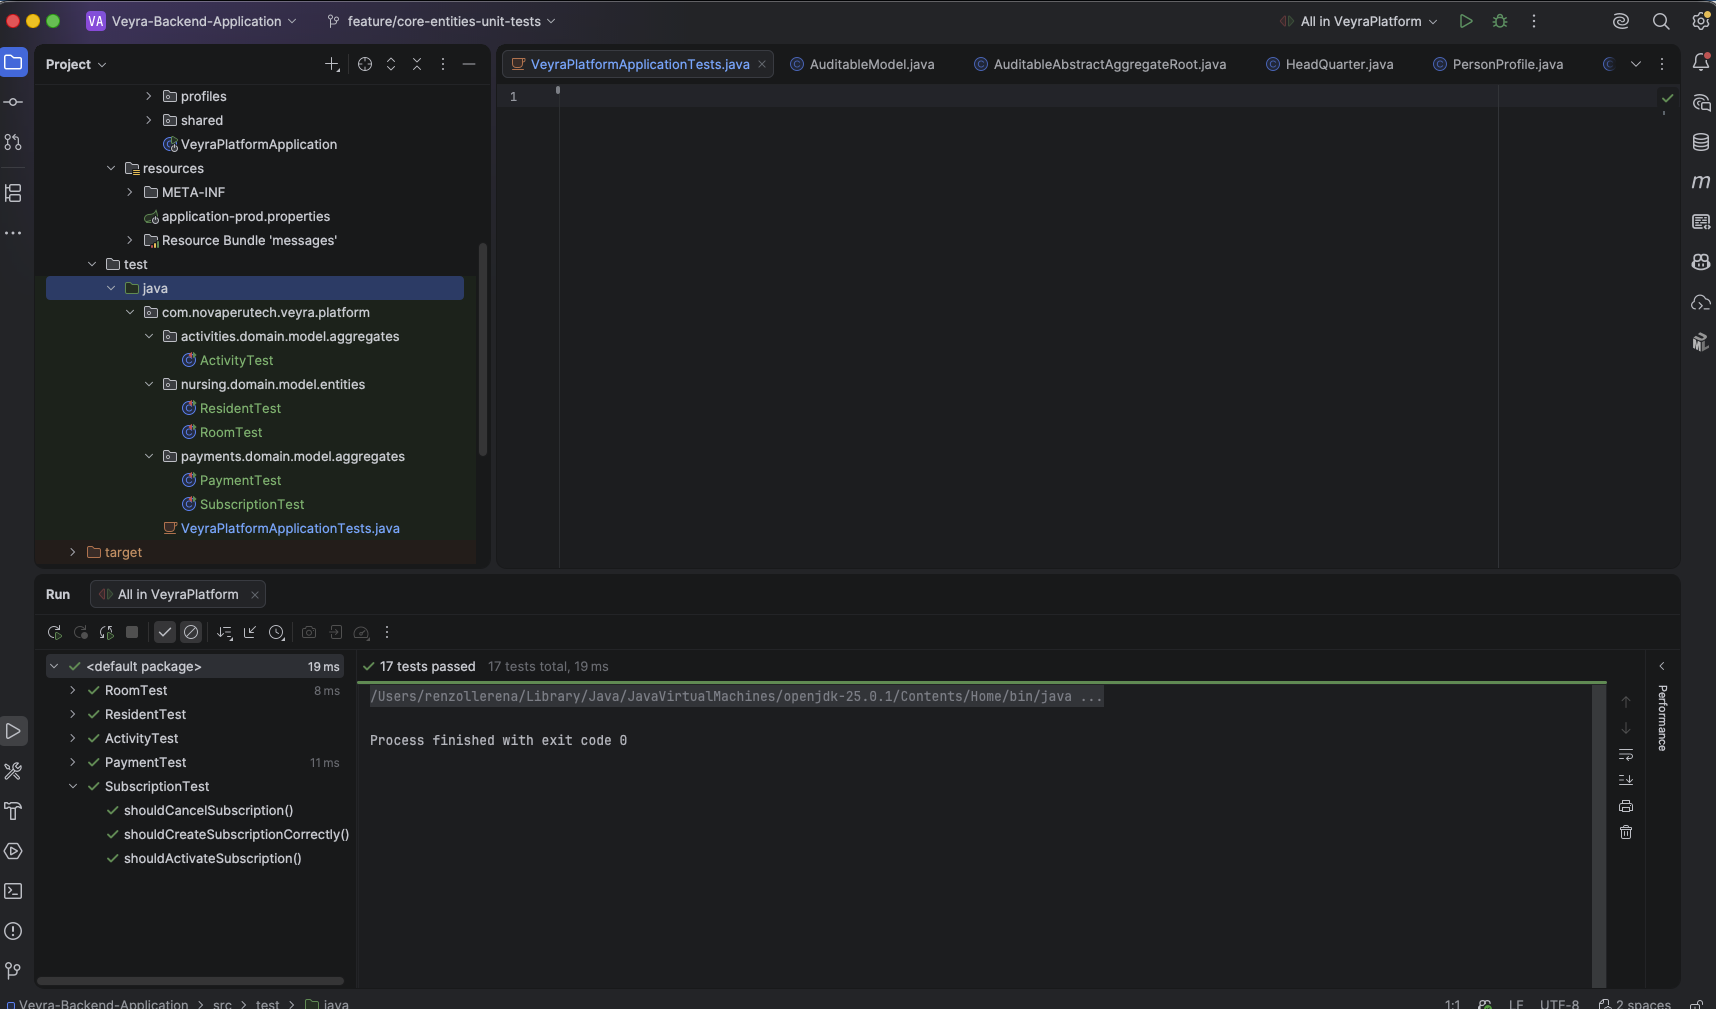
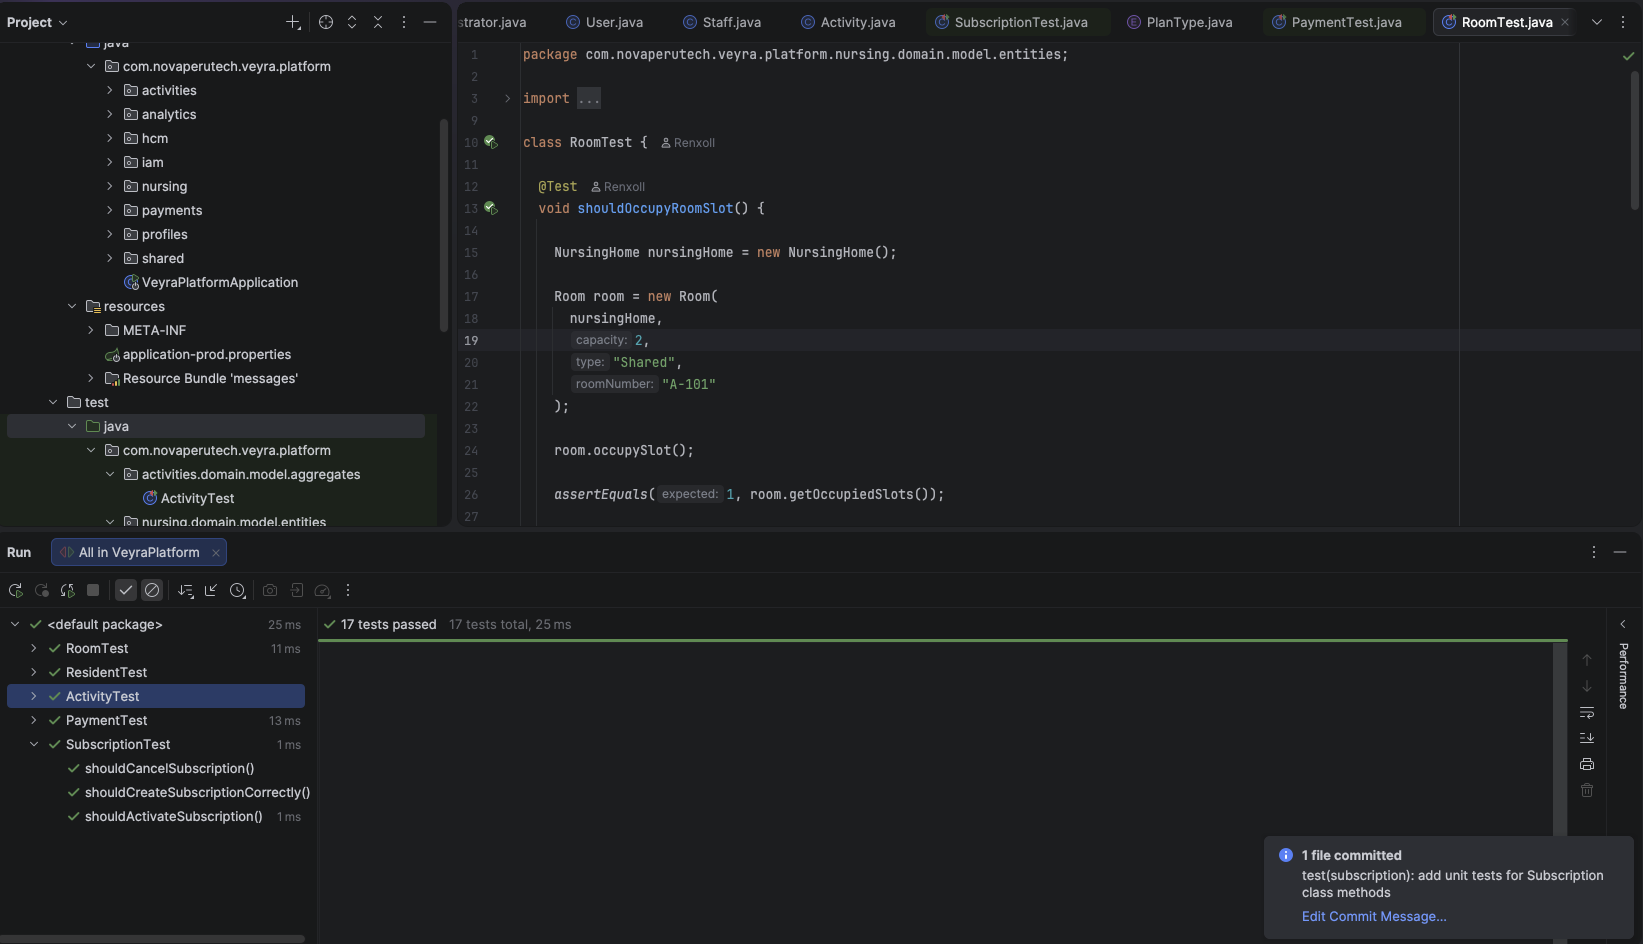
docs(chapter-VI): update caption for core entities unit tests image

diff --git a/docs/chapter-VI.md b/docs/chapter-VI.md
@@ -23,7 +23,7 @@ Además, se emplearon mocks para evitar dependencias externas como conexiones a 
 
 <div align="center">
   <img src="../assets/img/chapter-VI/core-entities-unit-tests.png" alt="Evidencia de core entities unit tests" width="90%">
-  <p><em>Figura: Ejecución satisfactoria de la prueba de integración para el inicio de sesión.</em></p>
+  <p><em>Figura: Ejecución satisfactoria de las pruebas de entidades principales.</em></p>
 </div>
 
 